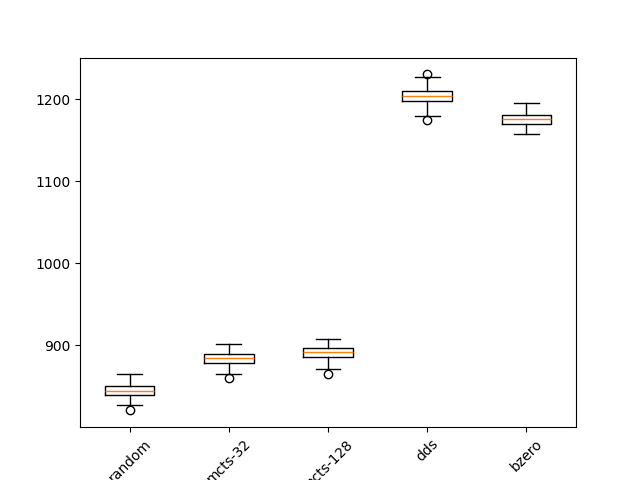
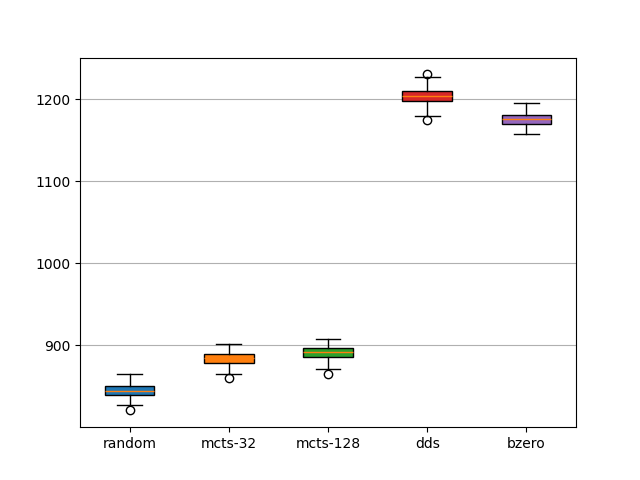
aaa

diff --git a/research_calc_elo.py b/research_calc_elo.py
@@ -42,8 +42,8 @@ def elo_update(elo_a, elo_b, result, k=32):
     return new_a, new_b
 
 
-if __name__ == '__main__':
-    with open('game_history/random-mcts32-mcts128-dds-bzero.pkl', 'rb') as f:
+if __name__ == "__main__":
+    with open("game_history/random-mcts32-mcts128-dds-bzero.pkl", "rb") as f:
         game_history = pickle.load(f)
 
     num_players = 5
@@ -61,30 +61,43 @@ if __name__ == '__main__':
     for _ in tqdm(range(nperm)):
         elo_ratings = np.ones(num_players) * 1000
         for p0, p1, result in rng.permutation(game_history):
-            elo_ratings[p0], elo_ratings[p1] = elo_update(elo_ratings[p0], elo_ratings[p1], result, 1)
+            elo_ratings[p0], elo_ratings[p1] = elo_update(
+                elo_ratings[p0], elo_ratings[p1], result, 1
+            )
         perm_elo_ratings.append(elo_ratings)
     perm_elo_ratings = np.array(perm_elo_ratings)
 
-    df = pd.DataFrame({
-        "player": player_names,
-        "mean_elo": np.mean(perm_elo_ratings, axis=0),
-        "std_elo": np.std(perm_elo_ratings, axis=0),
-    })
-    df.to_csv('research_out/calc_elo.csv', index=False)
+    df = pd.DataFrame(
+        {
+            "player": player_names,
+            "mean_elo": np.mean(perm_elo_ratings, axis=0),
+            "std_elo": np.std(perm_elo_ratings, axis=0),
+        }
+    )
+    df.to_csv("research_out/calc_elo.csv", index=False)
 
-    plt.figure()
-    plt.boxplot(perm_elo_ratings)
-    plt.xticks(range(1, num_players + 1), player_names, rotation=45)
-    plt.savefig('research_out/calc_elo_boxplot.png')
-
-    plt.figure()
     colors = {
-        'random': 'C0',
-        'mcts-32': 'C1',
-        'mcts-128': 'C2',
-        'dds': 'C3',
-        'bzero': 'C4',
+        "random": "C0",
+        "mcts-32": "C1",
+        "mcts-128": "C2",
+        "dds": "C3",
+        "bzero": "C4",
     }
+
+    fig, ax = plt.subplots()
+    bplot = ax.boxplot(
+        perm_elo_ratings,
+        patch_artist=True,
+        labels=player_names,
+    )
+    for patch, color in zip(bplot["boxes"], [colors[p] for p in player_names]):
+        patch.set_facecolor(color)
+    ax.yaxis.grid(True)
+
+    plt.savefig("research_out/calc_elo_boxplot.png")
+
+    plt.figure()
+
     rng = np.random.default_rng(0)
     for _ in range(3):
         elo_rating = [np.ones(num_players) * 1000]
@@ -96,4 +109,4 @@ if __name__ == '__main__':
         for i in range(num_players):
             plt.plot(elo_rating[:, i], color=colors[player_names[i]], alpha=0.5)
     plt.legend(player_names)
-    plt.savefig('research_out/calc_elo_history.png')
+    plt.savefig("research_out/calc_elo_history.png")
